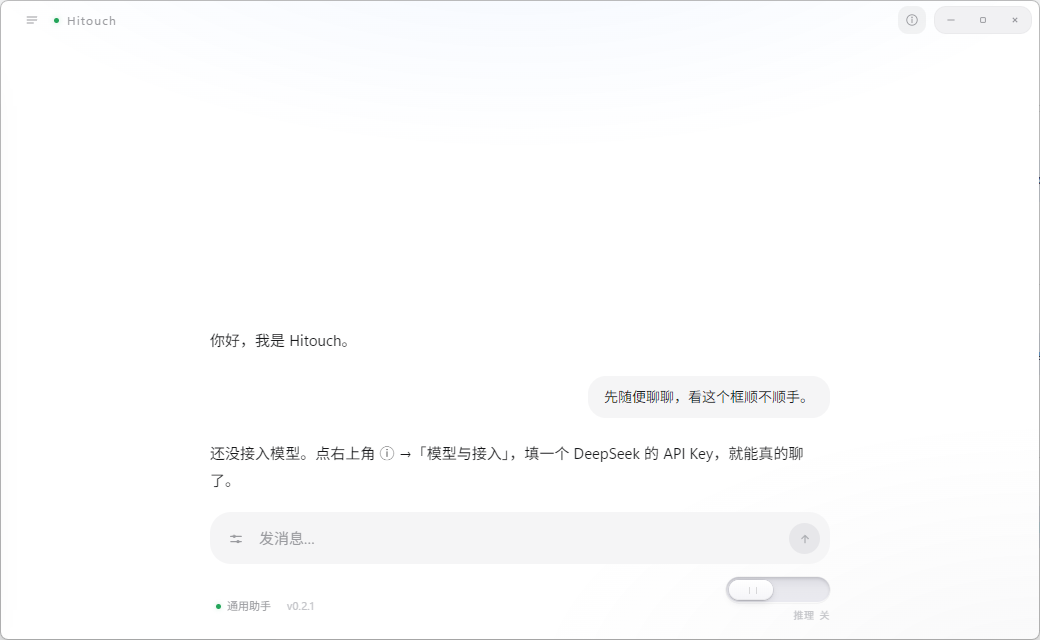
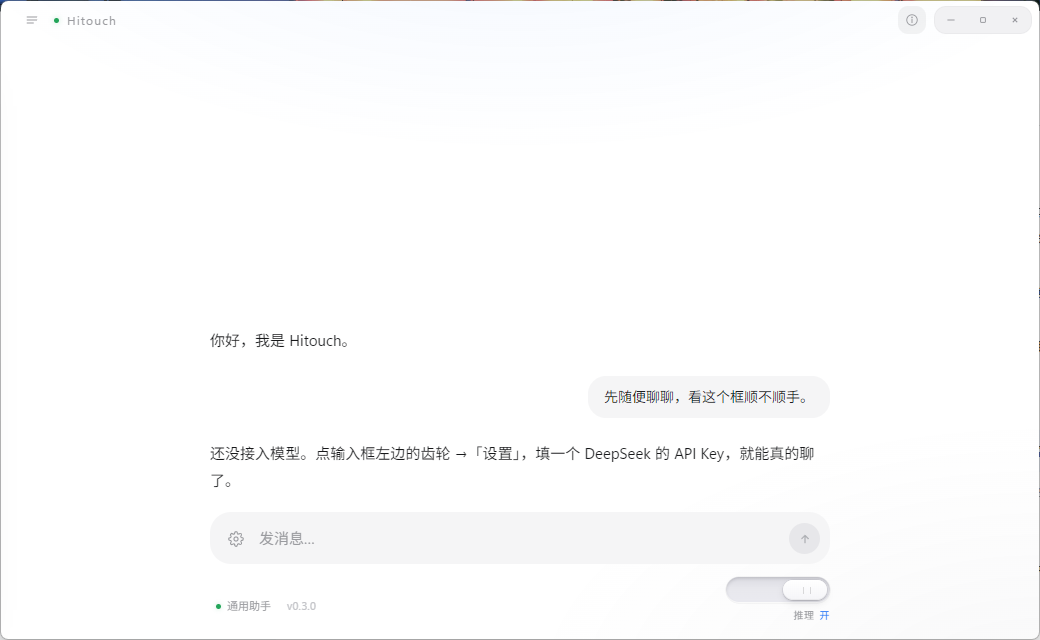
docs: 0.3.0 现在可下载——落地页/README 更新版本链接与哈希，配图换成新设置面板，补程序员外观与上下文滑轨说明

diff --git a/docs/index.html b/docs/index.html
@@ -131,7 +131,7 @@
   <header class="bar">
     <span class="bar-mark" aria-hidden="true"></span>
     <span class="bar-name">Hitouch</span>
-    <span class="bar-r">v0.2.0 · Windows x64</span>
+    <span class="bar-r">v0.3.0 · Windows x64</span>
   </header>
 
   <section class="hero">
@@ -139,8 +139,8 @@
     <p class="lede">填自己的 API Key 就能对话。不注册、不登录，中间没有我的服务器——<b>聊天记录默认不保存</b>，关窗即清；想留再打开，用 Windows 自带的加密存在本机。</p>
 
     <div class="actions">
-      <a class="btn btn-solid" href="https://gitee.com/sunkuforgame/Hitouch/releases/download/v0.2.0/Hitouch-0.2.0-setup.exe">下载安装包<span class="mb">81.7 MB</span></a>
-      <a class="btn" href="https://gitee.com/sunkuforgame/Hitouch/releases/download/v0.2.0/Hitouch-0.2.0-portable.exe">免安装便携版<span class="mb">74.3 MB</span></a>
+      <a class="btn btn-solid" href="https://gitee.com/sunkuforgame/Hitouch/releases/download/v0.3.0/Hitouch-0.3.0-setup.exe">下载安装包<span class="mb">81.7 MB</span></a>
+      <a class="btn" href="https://gitee.com/sunkuforgame/Hitouch/releases/download/v0.3.0/Hitouch-0.3.0-portable.exe">免安装便携版<span class="mb">74.4 MB</span></a>
     </div>
     <p class="fineprint">Windows 10 / 11 · 64 位 · 两个版本功能完全一样，安装包会请求管理员权限</p>
     <p class="fineprint">你发出去的每句话都会交给 DeepSeek 处理；开联网搜索时，搜索词会交给搜索引擎。这两件我替代不了。</p>
@@ -165,6 +165,7 @@
   <section>
     <h2>能做什么</h2>
     <p class="prose">流式回答，随时停下、重新生成。内置通用助手、学习助教、编程搭子、翻译四套人设，也能自己写。可选联网搜索（默认关，回答里标来源）、可选本地记忆（默认关）。Markdown 表格和代码高亮，任意对话能一键导出成 Markdown 文件。</p>
+    <p class="prose">0.3.0 更新：设置面板改成四组折叠（一次只开一组）；新增「程序员」外观——全英文界面、蓝黑配色，右侧边栏实时记录模型的深度思考过程；上下文从固定 6 轮改成 6–200 轮滑轨（默认 40），长对话不再被截断。</p>
     <p class="prose">没有的：账号、云同步、插件市场、会员、每日额度。</p>
   </section>
 
@@ -181,10 +182,10 @@
     <details>
       <summary>两个文件的 SHA-256</summary>
       <div class="body">
-        <p class="hash" style="font-size:13px">Hitouch-0.2.0-setup.exe · 81,724,481 字节<br><code>ff9ab1712a48addb5967b499c865f73a8f7c156d33687f64c923ff13c2739967</code></p>
-        <p class="hash" style="font-size:13px;margin-top:10px">Hitouch-0.2.0-portable.exe · 74,346,401 字节<br><code>9bfd7c47e27735337c349b9a8326196f07f57f37f4e8b13aa4e7b631bcd6c30a</code></p>
+        <p class="hash" style="font-size:13px">Hitouch-0.3.0-setup.exe · 81,730,417 字节<br><code>d288a06ac10d848cb7208187f46b1ab3f094084d3348254936deb11bac678de0</code></p>
+        <p class="hash" style="font-size:13px;margin-top:10px">Hitouch-0.3.0-portable.exe · 74,350,481 字节<br><code>f19055b1933d57ab65e9e7abdd502e654adc7867dfe739d2a4aaffd6f8e81c70</code></p>
         <p style="margin-top:12px;font-size:13px;color:var(--ink-3)">自己算一遍：</p>
-        <pre>certutil -hashfile Hitouch-0.2.0-setup.exe SHA256</pre>
+        <pre>certutil -hashfile Hitouch-0.3.0-setup.exe SHA256</pre>
       </div>
     </details>
     <details>
@@ -208,8 +209,8 @@ npm run dist</pre>
   <footer>
     <a href="https://gitee.com/sunkuforgame/Hitouch">Gitee 仓库</a>
     <a href="https://gitee.com/sunkuforgame/Hitouch/releases">全部版本</a>
-    <a href="https://gitee.com/sunkuforgame/Hitouch/releases/download/v0.2.0/SHA256SUMS.txt">校验文件</a>
-    <span>2026-11-04 更新</span>
+    <a href="https://gitee.com/sunkuforgame/Hitouch/releases/download/v0.3.0/SHA256SUMS.txt">校验文件</a>
+    <span>2026-11-07 更新</span>
     <span>MIT · Sun2530</span>
   </footer>
 </div>

diff --git a/README.en.md b/README.en.md
@@ -34,7 +34,7 @@ Everything on screen is necessary; the rest was removed. Concretely:
 - **No cloud sync.** Records stay inside the current Windows account.
 - **No settings maze.** Every option lives in a single panel, readable in one glance.
 - **No shortcut reference.** Enter sends, Shift + Enter breaks the line. That's all.
-- **No themes, skins, or plugin marketplace.** White is white.
+- **No skins or plugin marketplace.** Just two looks: Light, and Engineer (dark blue, full English, live reasoning panel on the right).
 
 The icons were drawn one by one rather than pulled from an icon set.
 
@@ -78,6 +78,8 @@ DeepSeek-V4.1-Flash and DeepSeek-V4-Pro, switchable at any time.
 **Skills**
 Two are built in, each can be turned off independently:
 
+- **Engineer look** (0.3.0) — full English UI + dark blue theme with a right-hand panel that streams the model's reasoning live; switch between the two looks anytime, your choice is remembered.
+- **Context slider** (0.3.0) — adjustable from 6 to 200 turns, default 40; long conversations and big projects no longer get cut off.
 - **Alarm** — say "remind me at eight tomorrow" and the model turns it into a scheduled task that pops up a notification on time.
 - **System repair** — runs Windows' own DISM and SFC to verify and repair local system files. Requests elevation when needed, and writes a separate log file for every run.
 
@@ -90,14 +92,14 @@ Two builds, identical in function. Pick either.
 
 | File | Notes |
 | --- | --- |
-| `Hitouch-0.2.0-portable.exe` | Portable. Double-click to run, writes nothing to the registry, fits on a USB stick. |
-| `Hitouch-0.2.0-setup.exe` | Installer. Choose the install directory, creates Start menu and desktop shortcuts, uninstalls from Apps & features. |
+| `Hitouch-0.3.0-portable.exe` | Portable. Double-click to run, writes nothing to the registry, fits on a USB stick. |
+| `Hitouch-0.3.0-setup.exe` | Installer. Choose the install directory, creates Start menu and desktop shortcuts, uninstalls from Apps & features. |
 
 Get them from [Releases](https://github.com/Sun2530/Hitouch/releases). The size is large because the Electron runtime is bundled.
 
 ## First run
 
-1. Open the app and click the top-right corner to reach **Model & access**
+1. Open the app and click the gear left of the composer to reach **Settings → Model**
 2. Enter a DeepSeek API key (create one at [platform.deepseek.com](https://platform.deepseek.com/api_keys))
 3. Pick a model, save
 
